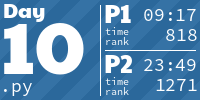
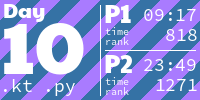
Add day 10

diff --git a/2022/10/10.kt b/2022/10/10.kt
@@ -1,0 +1,12 @@
+fun main() {
+    val vals = generateSequence(::readlnOrNull).joinToString("\n").replace(" ", "\n").split("\n")
+        .map { if (it.length == 4) 0 else it.toInt() }
+        .scan(1) {s, e -> s + e}
+        .withIndex()
+    println(vals.filter { (it.index+1) % 40 == 20 }.sumOf { (it.index+1) * it.value })
+    val p2 = vals
+        .map { (i, v) -> if (v-1 <= i % 40 && i % 40 <= v+1) "#" else " " }
+        .chunked(40)
+        .map { it.joinToString("") }
+    println(p2.joinToString("\n").trim())
+}

diff --git a/README.md b/README.md
@@ -33,7 +33,7 @@
 <a href="2022/09/09.kt">
   <img src="Media/2022/09.png" width="161px">
 </a>
-<a href="2022/10/10.py">
+<a href="2022/10/10.kt">
   <img src="Media/2022/10.png" width="161px">
 </a>
 <h1 align="center">
